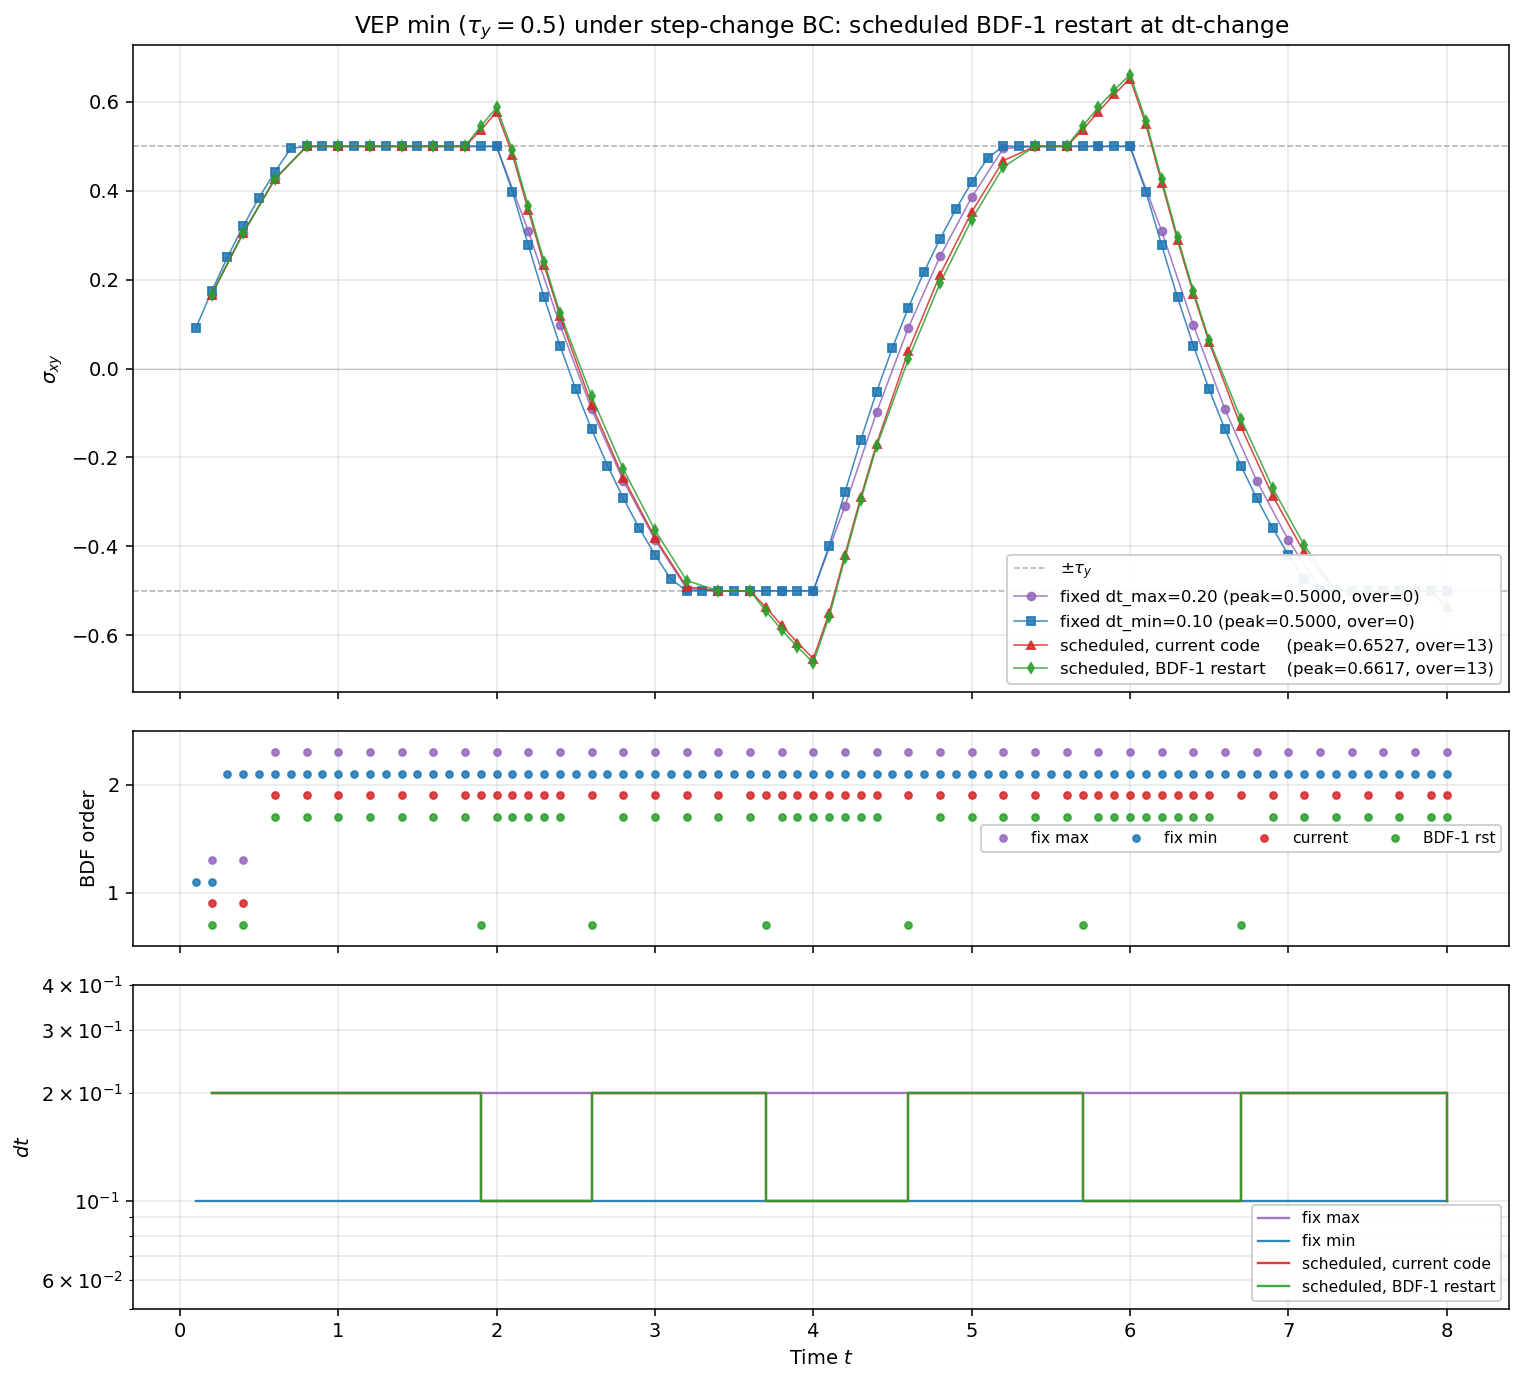
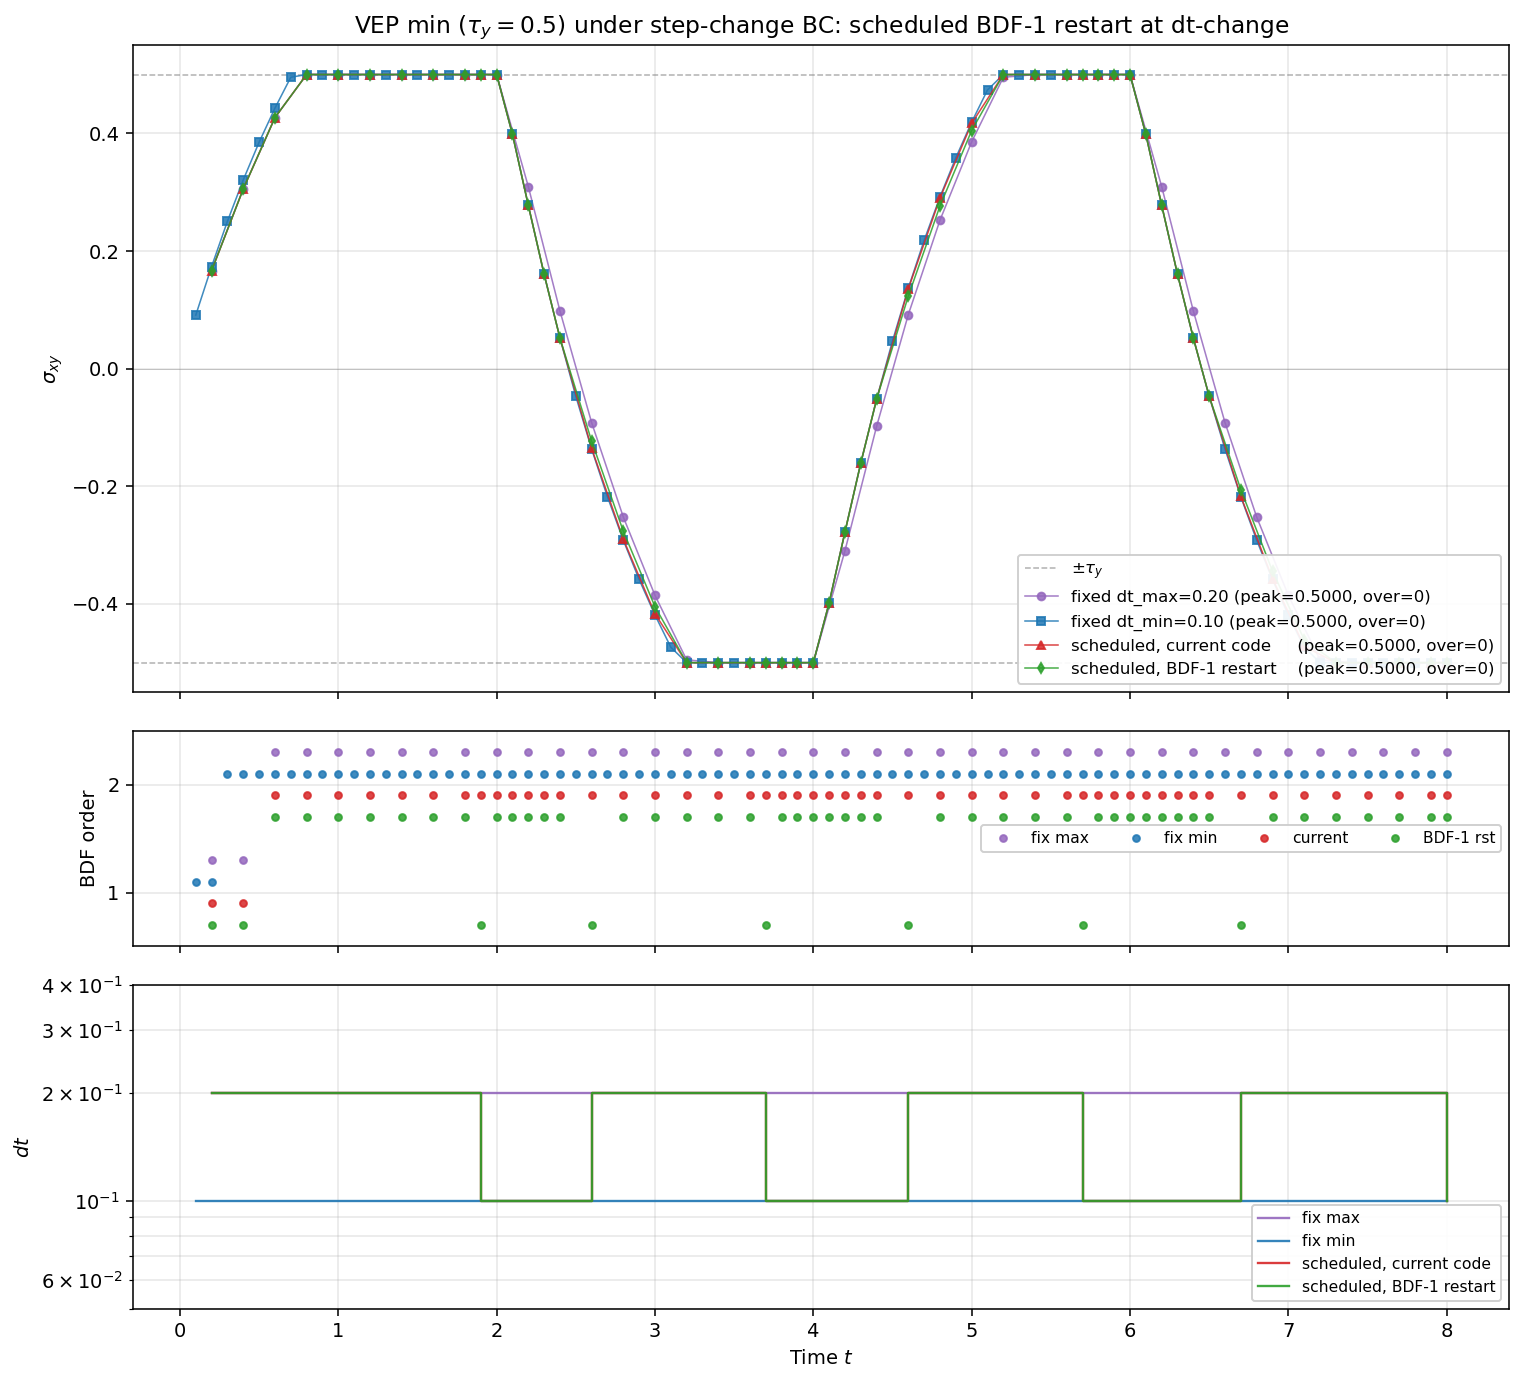
Fix VEP yield-surface drift under variable dt (snapshot projection)
Root cause: the multicomponent projection of flux→psi_star[0] in
SNES_Stokes.solve was implicit in psi_star[0]. flux = 2·viscosity·E_eff
and E_eff contains psi_star[0] in its history term, so the projection's
residual (psi_star[0] − flux(psi_star[0]))·weight is implicit in the
target. With Min-mode at the yield kink, the implicit projection has
two fixed points (elastic and yield branches). Under fixed dt, natural
evolution sits on the yield-branch fixed point. Under dt change, the
discrete representation perturbs the iteration toward the elastic-branch
fixed point and σ drifts off τ_y by 30%+ before the BC flips reset the
state.

Fix: substitute psi_star[0] symbols with a frozen snapshot variable
in the flux expression used as projection source.  Snapshot data is
copied from psi_star[0] before the projection runs, freezing the
source's input.  The projection becomes a true one-shot Galerkin
projection — no implicit feedback, no drift.

Verification on the scheduled-dt benchmark (halve/double around BC
flips) for VEP min:

  VEP min, peak |σ| / overshoots > 1.05·τ_y:
    fixed dt_max=0.20:           0.5000 / 0
    fixed dt_min=0.10:           0.5000 / 0
    scheduled, current code:     0.6527 / 13   →   0.5000 / 0   ✓
    scheduled + BDF-1 restart:   0.6617 / 13   →   0.5000 / 0   ✓

Pure VE accuracy unchanged.  Tests test_1050_VEstokesCart,
test_1051_VE_shear_box, test_0610_constitutive_tensor_regression all
pass; level_1 + tier_a (56 tests) all pass.
[…]

diff --git a/src/underworld3/systems/solvers.py b/src/underworld3/systems/solvers.py
@@ -1290,16 +1290,50 @@ class SNES_Stokes(SNES_Stokes_SaddlePt):
 
             if getattr(self.DFDt, '_psi_star_use_multicomponent', False):
                 # Multi-component projection: solve all components at once.
-                # Only set uw_function on first call — the flux expression
-                # structure is stable; constant values flow through PetscDS.
-                if not getattr(self.DFDt, '_psi_star_projector_initialised', False) or not self.constitutive_model._solver_is_setup:
+                # The source flux = 2·viscosity·E_eff references psi_star[0] in
+                # E_eff's history term.  Using flux directly as the projection
+                # source makes the projection implicit in psi_star[0] (target
+                # equals source's input), and Min-mode at the yield kink admits
+                # multiple fixed points — under dt change the iteration drifts
+                # to the elastic-branch fixed point (yield surface violation).
+                # Fix: substitute psi_star[0] with a frozen snapshot variable
+                # in the flux expression. The projection then becomes a true
+                # one-shot Galerkin projection of a constant-input source.
+                # Each step we copy psi_star[0].array → snapshot.array before
+                # the projection solve.
+                ps0 = self.DFDt.psi_star[0]
+                dim = self.mesh.dim
+                # Lazy-create the snapshot variable + cached substituted-flux row
+                if not hasattr(self.DFDt, '_psi_star_0_snapshot'):
+                    self.DFDt._psi_star_0_snapshot = uw.discretisation.MeshVariable(
+                        f"psi_star_0_snap_{self.DFDt.instance_number}",
+                        self.mesh,
+                        ps0.shape,
+                        vtype=ps0.vtype,
+                        degree=ps0.degree,
+                        continuous=ps0.continuous,
+                    )
+                if not hasattr(self.DFDt, '_psi_star_row_frozen') or not self.constitutive_model._solver_is_setup:
                     import sympy
+                    snap = self.DFDt._psi_star_0_snapshot
                     flux = self.constitutive_model.flux
+                    substitutions = {}
+                    for i in range(dim):
+                        for j in range(dim):
+                            substitutions[ps0.sym[i, j]] = snap.sym[i, j]
+                    flux_frozen = flux.subs(substitutions)
                     indep = self.DFDt._psi_star_indep_indices
-                    row = sympy.Matrix([[flux[i, j] for (i, j) in indep]])
-                    self.DFDt._psi_star_projection_solver.uw_function = row
-                    self.DFDt._psi_star_projection_solver.smoothing = 0.0
-                    self.DFDt._psi_star_projector_initialised = True
+                    self.DFDt._psi_star_row_frozen = sympy.Matrix(
+                        [[flux_frozen[i, j] for (i, j) in indep]]
+                    )
+                # Each step: copy current psi_star[0] → snapshot, then project.
+                # Setting uw_function each step is required: setting it once
+                # does not currently trigger a fresh recompile of the
+                # projection's compiled residual (TODO: identify why and
+                # remove the per-step set for performance).
+                self.DFDt._psi_star_0_snapshot.array[...] = self.DFDt.psi_star[0].array[...]
+                self.DFDt._psi_star_projection_solver.uw_function = self.DFDt._psi_star_row_frozen
+                self.DFDt._psi_star_projection_solver.smoothing = 0.0
                 self.DFDt._psi_star_projection_solver.solve(verbose=verbose)
                 # Fan flat result back to psi_star[0] tensor variable
                 for k, (i, j) in enumerate(self.DFDt._psi_star_indep_indices):
